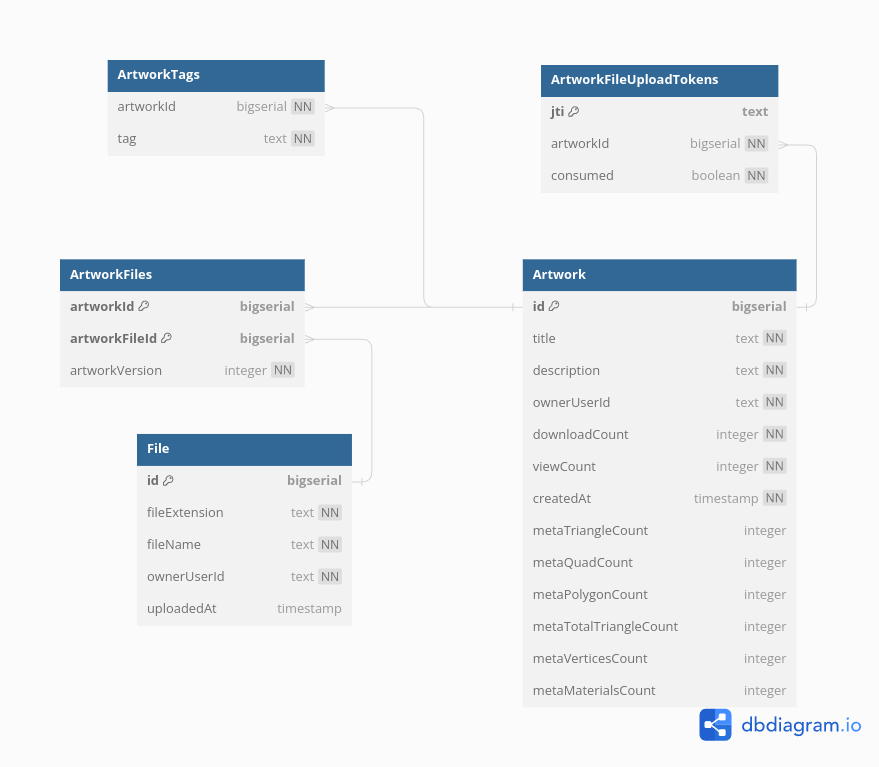
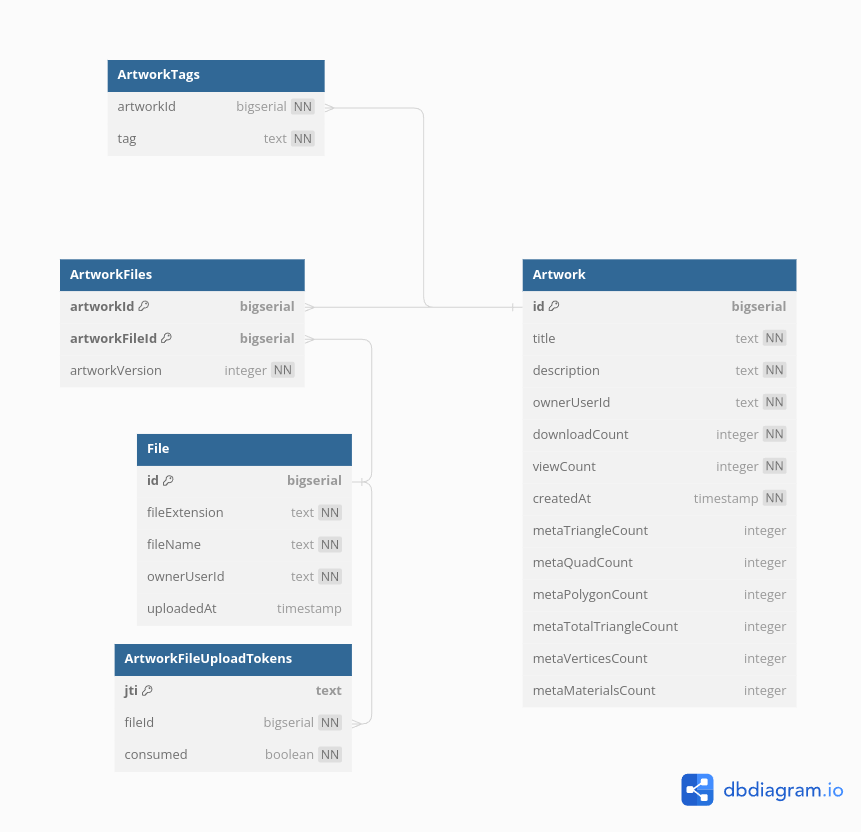
Corrected error for FileUploadTokens table

diff --git a/mkdocs/site/developers/database/tables/index.html b/mkdocs/site/developers/database/tables/index.html
@@ -137,7 +137,7 @@ Table File {
   id bigserial [pk]
   fileExtension text [not null] // Used to select the three.js loader
   fileName text [not null]
-  ownerUserId bigserial [not null]
+  ownerUserId text [not null]
   uploadedAt timestamp
 }
 
@@ -145,7 +145,7 @@ Table Artwork {
   id bigserial [pk]
   title text [not null]
   description text [not null]
-  ownerUserId bigserial [not null]
+  ownerUserId text [not null]
   downloadCount integer [not null, default: 0]
   viewCount integer [not null, default: 0]
   createdAt timestamp [not null]

diff --git a/mkdocs/site/index.html b/mkdocs/site/index.html
@@ -180,5 +180,5 @@
 
 <!--
 MkDocs version : 1.4.2
-Build Date UTC : 2024-03-22 10:25:32.052285+00:00
+Build Date UTC : 2024-03-24 05:23:47.001250+00:00
 -->

diff --git a/mkdocs/docs/developers/database/tables.md b/mkdocs/docs/developers/database/tables.md
@@ -57,7 +57,7 @@ Table ArtworkTags {
 
 Table ArtworkFileUploadTokens {
   jti text [pk]
-  artworkId bigserial [ref: > Artwork.id, not null]
+  fileId bigserial [ref: > File.id, not null]
   consumed boolean [not null, default: FALSE]
 }
 ```
